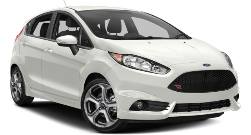
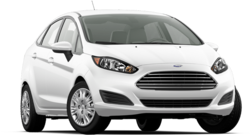
car rent photoes

diff --git a/resources/views/frontend/car-rent.blade.php b/resources/views/frontend/car-rent.blade.php
@@ -444,7 +444,7 @@
                                 
                                     <div class="car-rent-row3-car1">
                                     <p>Small/Economy</p>
-                                        <img src="{{asset('front/images/Car_Rent/Suzuki Vitara.png')}}" alt="">
+                                        <img src="{{asset('front/images/Car_Rent/Ford Fiesta.png')}}" alt="">
                                         <div class="rent-kia-specs">
                                         <div class="rent-vehicle-type">
                                                 
@@ -662,7 +662,7 @@
                                     
                                     <div class="car-rent-row1-car2">
                                     <p>SUV</p>
-                                        <img src="{{asset('front/images/Car_Rent/Subaru XV.png')}}" alt="">
+                                        <img src="{{asset('front/images/Car_Rent/Toyota CH-R.png')}}" alt="">
                                         <div class="rent-kia-specs">
                                         <div class="rent-vehicle-type">
                                                                 </div>

diff --git a/resources/views/frontend/blacksea.blade.php b/resources/views/frontend/blacksea.blade.php
@@ -238,6 +238,7 @@
     </div>
     </div>
     <div id="inputT3">
+      
     <div>      
       <input name="Name" type="text" placeholder="@lang('front.name')" required>
     </div>
